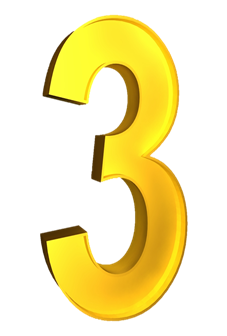
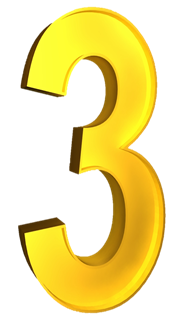
Changed images of countdown so they're able to be rendered in the center, countdown is in the middle

Changed region(s): [[0.0833, 0.0, 0.9444, 1.0]]

diff --git a/src/sample/models/Game.java b/src/sample/models/Game.java
@@ -3,6 +3,7 @@ package sample.models;
 import javafx.animation.AnimationTimer;
 import javafx.scene.layout.Pane;
 import javafx.scene.shape.Line;
+import javafx.stage.Screen;
 import sample.Main;
 import sample.controllers.audio.SoundManager;
 import sample.controllers.game.RandomTrackScreen;
@@ -103,7 +104,7 @@ public class Game
 			y -= 25;
 			bananaPowerup.render(x, y);
 		}
-		intro[intro_frame].render(400,90);
+		intro[intro_frame].render((Screen.getPrimary().getBounds().getWidth()/2)-(intro[intro_frame].getImage().getFitWidth()/2), (Screen.getPrimary().getBounds().getHeight()/2)-(intro[intro_frame].getImage().getFitHeight()*0.6));
 	}
 
 	private void setCar1WidthHeight(){
@@ -244,7 +245,9 @@ public class Game
 					{
 						if(intro_frame <= 3 && intro_frame != 0)
 						{
-							intro[intro_frame].render(350, 50); // render( x, y )
+//							intro[intro_frame].render(500, 50);
+//							System.out.println((int)Screen.getPrimary().getBounds().getWidth());
+							intro[intro_frame].render((Screen.getPrimary().getBounds().getWidth()/2)-(intro[intro_frame].getImage().getFitWidth()/2), (Screen.getPrimary().getBounds().getHeight()/2)-(intro[intro_frame].getImage().getFitHeight()*0.6));// render( x, y )
 						}
 						else{
 							startBoost(playerCar);

diff --git a/src/sample/controllers/ui/MainScreen.java b/src/sample/controllers/ui/MainScreen.java
@@ -83,9 +83,12 @@ public class MainScreen {
         SoundManager.loop("playBgm");
 
         try {
+//            Main.settings.setPlayMode(Settings.PlayMode.MULTIPLAYER); - multiplayer, just remove if not wanted
             Main.settings.setTrack(Settings.Track.TRACK3);
             Main.settings.setLaps(3);
-            FXMLLoader loader = new FXMLLoader(Main.class.getResource("Views/randomTrackScreen.fxml"));
+//          FXMLLoader loader = new FXMLLoader(Main.class.getResource("Views/randomTrackScreen.fxml")); - single player, comment out on below
+            FXMLLoader loader = new FXMLLoader(Main.class.getResource("Views/multiplayer.fxml"));
+
             Parent root = loader.load();
             root.requestFocus();
             Main.sceneManager.setCurrentRoot(root);

diff --git a/src/sample/models/Raycaster.java b/src/sample/models/Raycaster.java
@@ -113,7 +113,6 @@ public class Raycaster {
             for (Line boundary : boundaries) {
                 Point point = this.rays[i].cast(boundary);
                 if (point != null) {
-                    //System.out.println(point.toString());
                     double distance = Point.distance(pos, point);
                     if (distance < record) {
                         record = distance;
